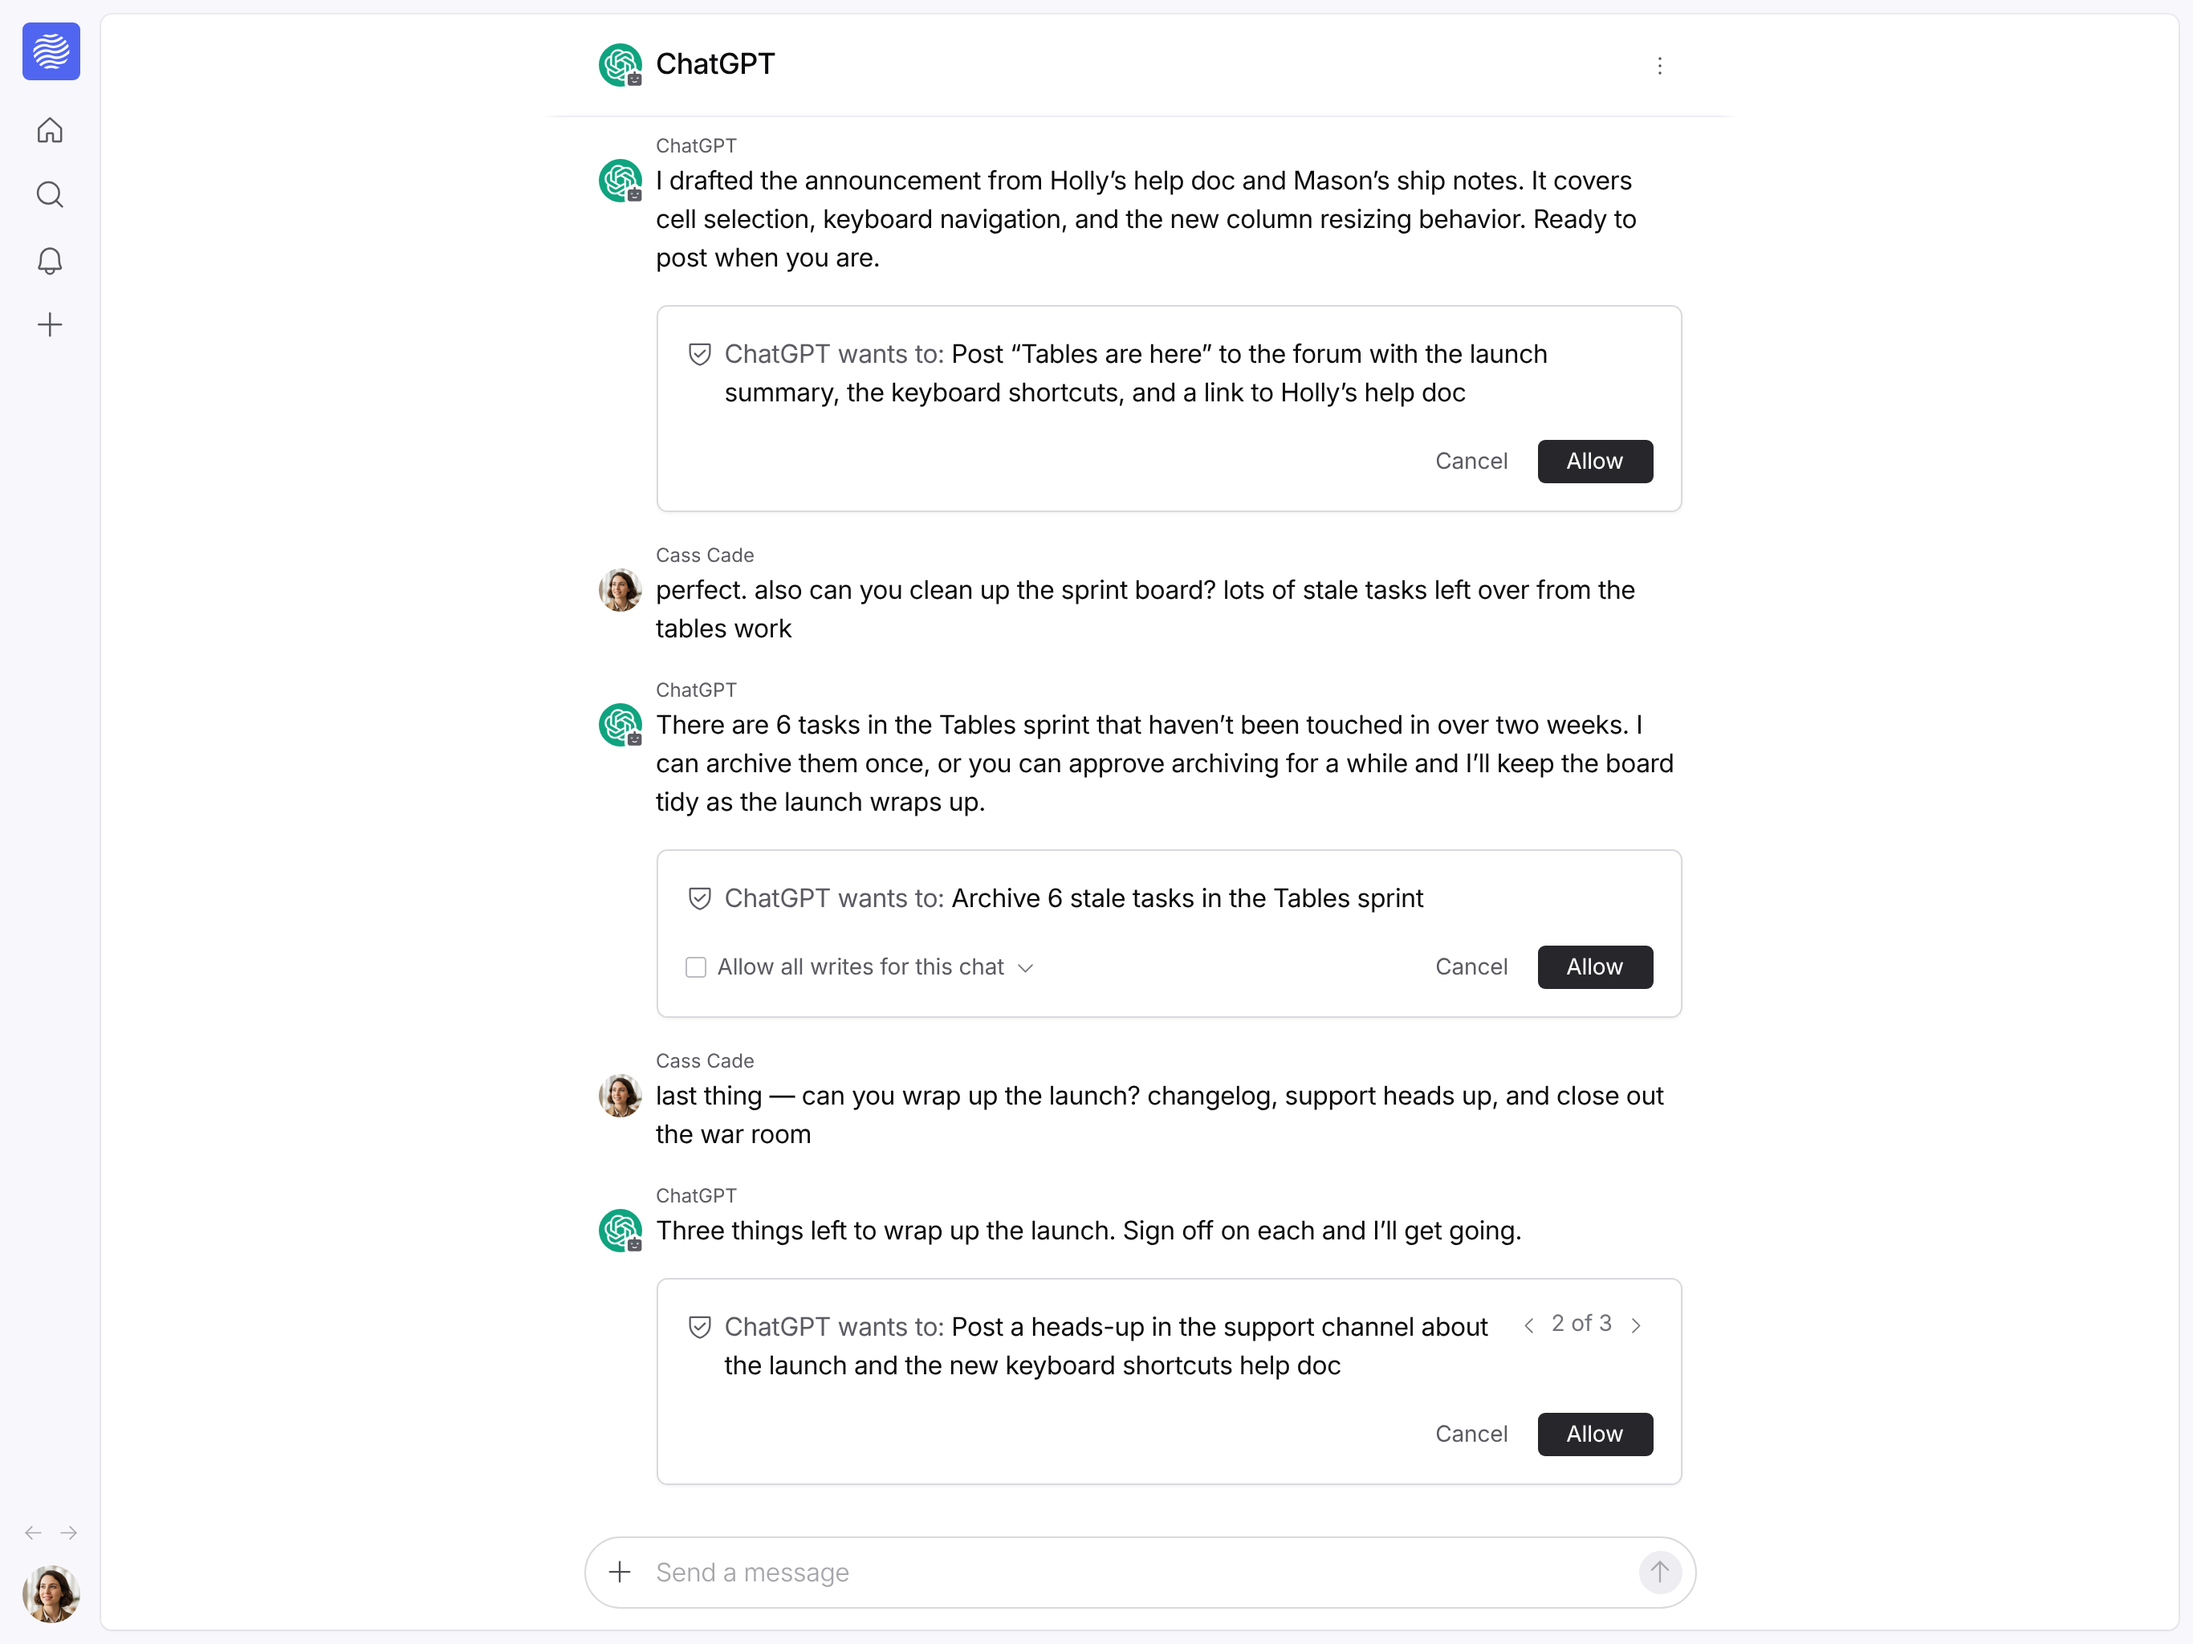
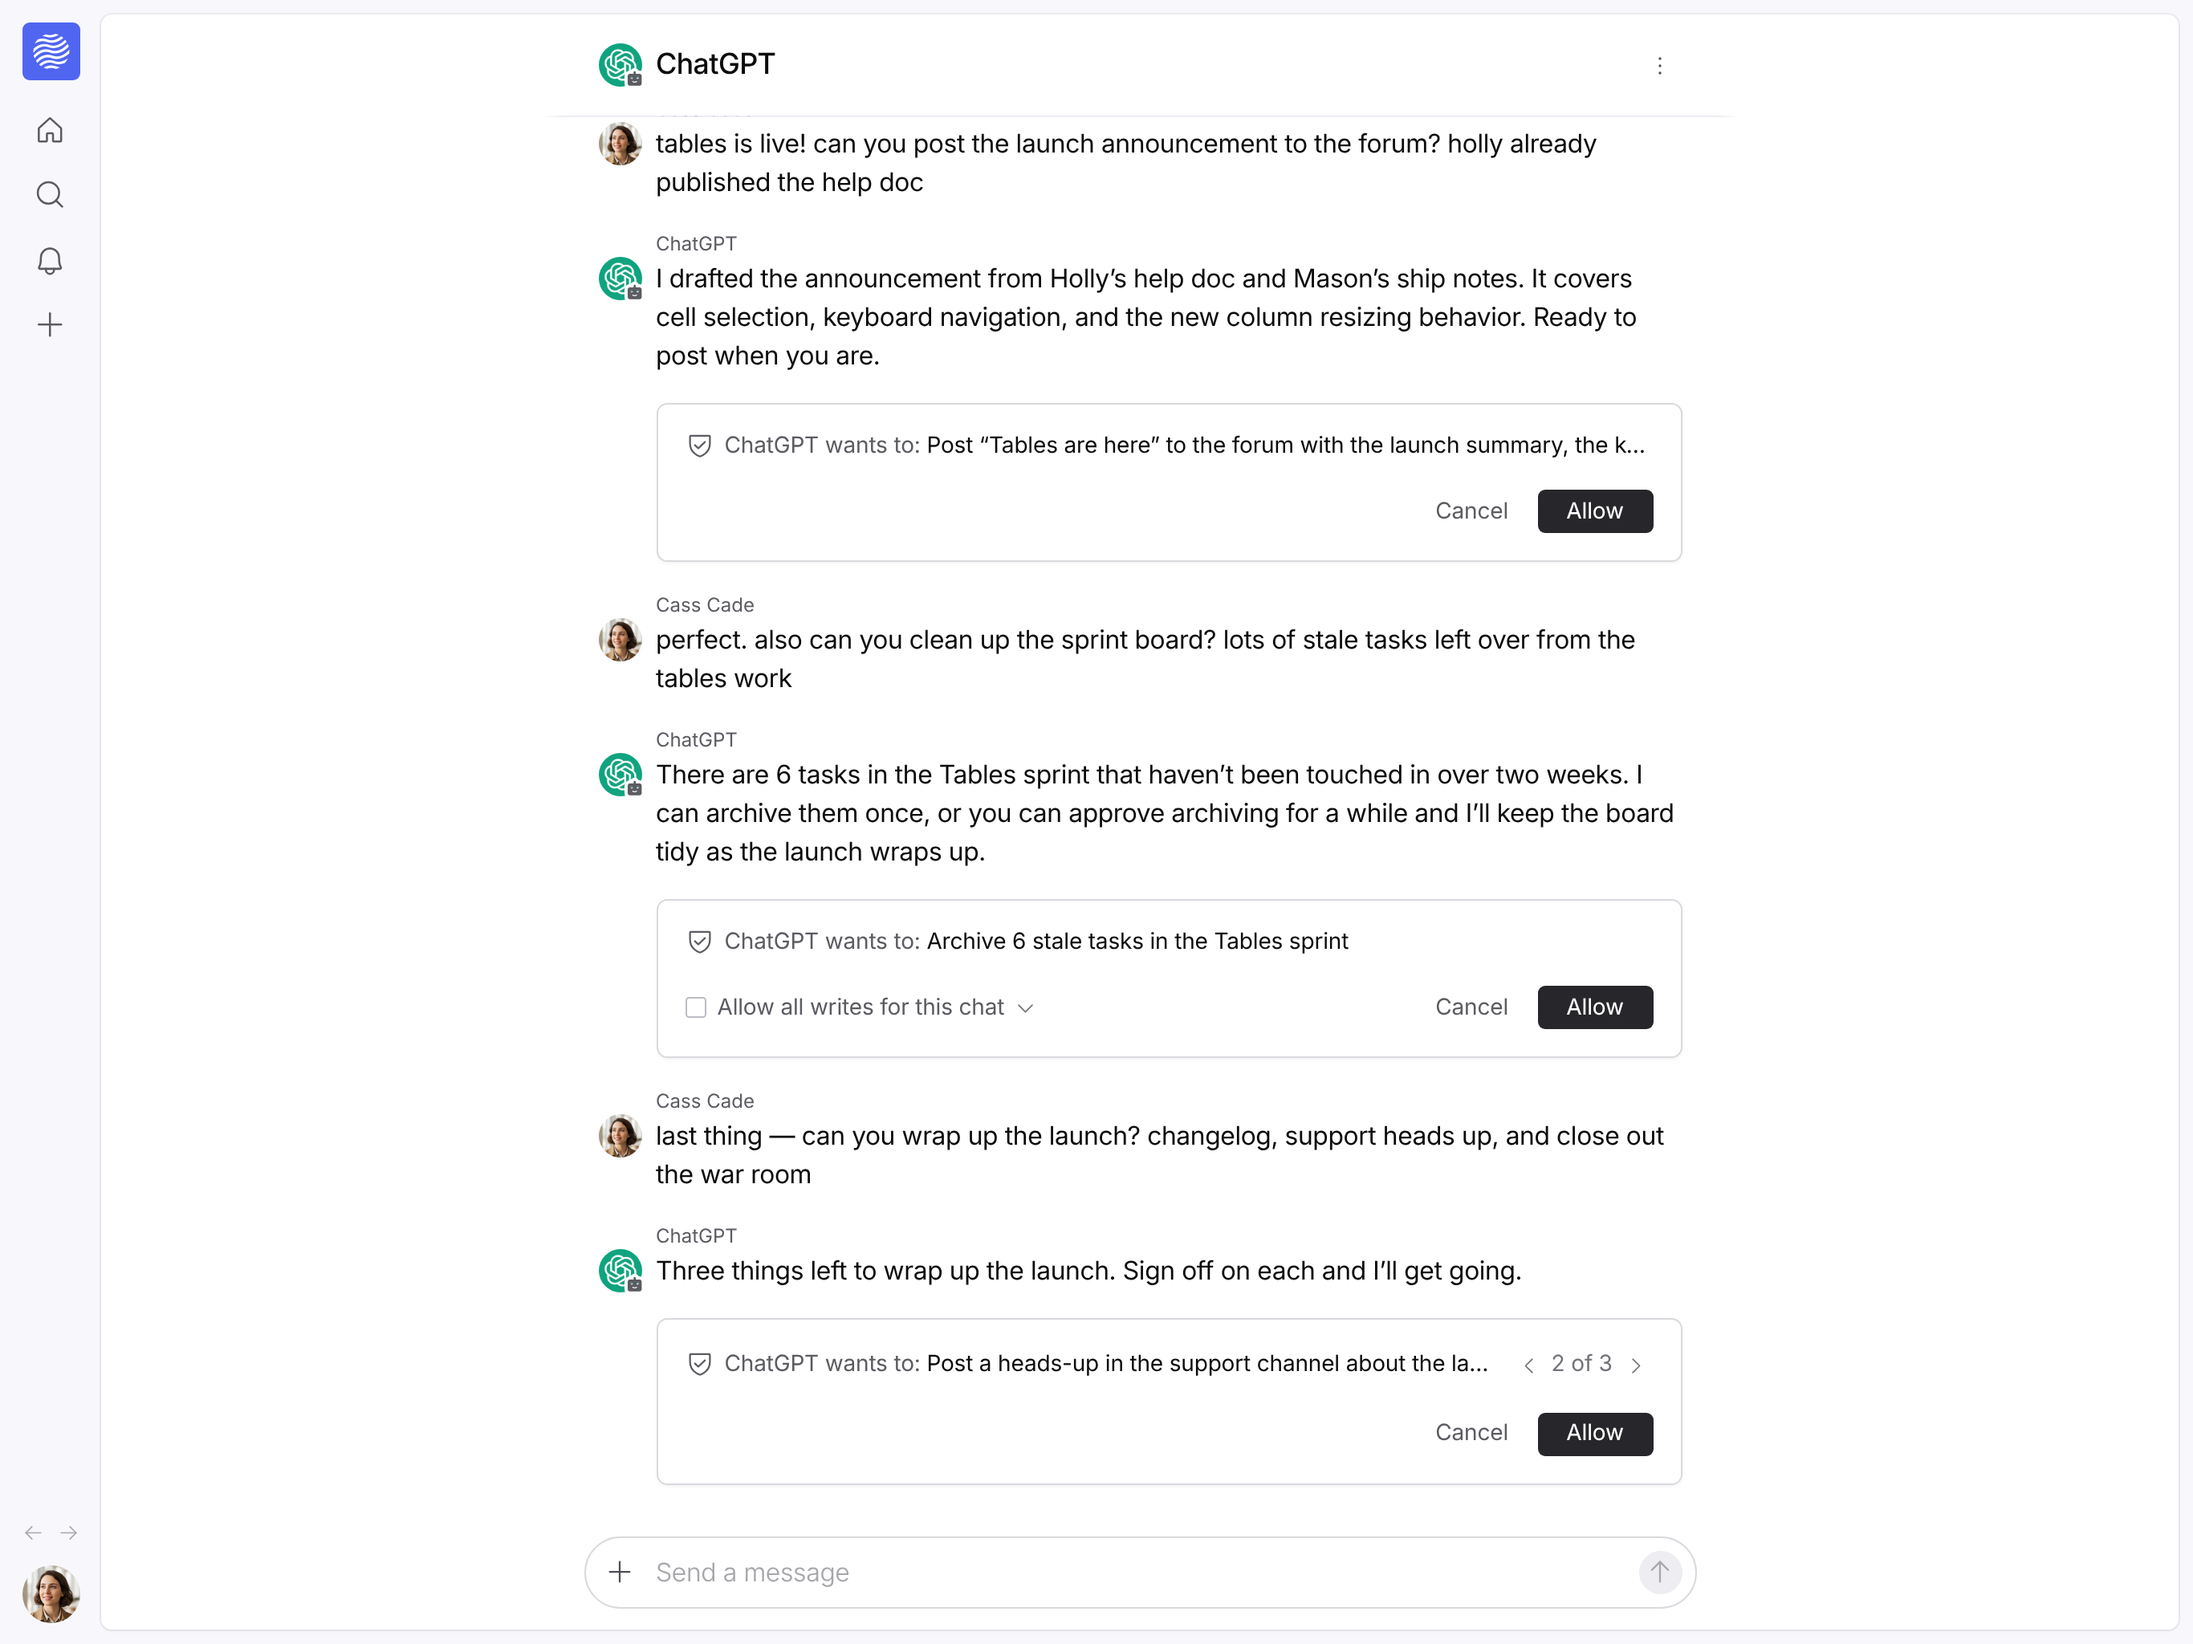
approval card nits (#1735)

Changed region(s): [[0.2489, 0.0625, 0.7778, 0.8438], [0.6534, 0.5625, 0.7778, 0.625]]

diff --git a/client/web/messaging/internal/message_stream_view_approvals.tsx b/client/web/messaging/internal/message_stream_view_approvals.tsx
@@ -10,6 +10,11 @@ import {Button} from "~/client/web/design/button.js";
 import {Checkbox} from "~/client/web/design/checkbox.js";
 import {IconButton} from "~/client/web/design/icon_button.js";
 import {MenuButton} from "~/client/web/design/menu_button.js";
+import {Tooltip} from "~/client/web/design/tooltip.js";
+import {
+    addResizeListenerForElement,
+    removeResizeListenerForElement,
+} from "~/client/web/helpers/use_resize_observer.js";
 import {useStore} from "~/client/web/helpers/use_store.js";
 import {useClientInfo} from "~/client/web/remix/client_info_context.js";
 import {SearchEntityRegistry} from "~/client/web/search/core/search_entity_registry.js";
@@ -268,6 +273,32 @@ function MessageStreamViewApprovalCard({
 
     const decisionValue = approval.decision.value;
 
+    const [summaryElement, setSummaryElement] = useState<HTMLDivElement | null>(null);
+    const [isSummaryTruncated, setIsSummaryTruncated] = useState(false);
+
+    // The summary tooltip repeats the summary line so it's only useful when the line
+    // is actually truncated, which we can only know by measuring the rendered element.
+    useEffect(() => {
+        // NOTE(ifitzsimmons, 2026-07-16): The summary element renders `summaryText` so
+        // re-measure when it changes. As of writing, the summary text is fixed and really
+        // shouldn't change. We'll leave this here for now in case it does in the future.
+        //
+        // eslint-disable-next-line @typescript-eslint/no-unused-expressions
+        summaryText;
+
+        if (summaryElement === null) return;
+
+        const measureIsSummaryTruncated = () => {
+            setIsSummaryTruncated(summaryElement.scrollWidth > summaryElement.clientWidth);
+        };
+
+        measureIsSummaryTruncated();
+
+        // Resizing the element changes how much text fits on the summary's single line.
+        addResizeListenerForElement(summaryElement, measureIsSummaryTruncated);
+        return () => removeResizeListenerForElement(summaryElement, measureIsSummaryTruncated);
+    }, [summaryElement, summaryText]);
+
     return (
         <div
             className={sprinkles({
@@ -279,46 +310,68 @@ function MessageStreamViewApprovalCard({
                 backgroundColor: "grey-0",
                 boxShadow: "elevation-5-with-grey-10-border",
                 borderRadius: "1.5",
+                userSelect: "text",
             })}
         >
             <div
                 className={sprinkles({
                     display: "flex",
-                    alignItems: "flex-start",
+                    alignItems: "center",
                     gap: "3",
                 })}
             >
                 <div
                     className={sprinkles({
                         display: "flex",
-                        alignItems: "flex-start",
+                        alignItems: "center",
                         gap: "1.5",
                         flexGrow: "1",
                         minWidth: "flex-fit",
-                        fontSize: contentStyles.paragraphActualFontSize,
+                        fontSize: "75",
                     })}
-                    style={{lineHeight: contentStyles.paragraphLineHeightVar}}
+                    style={{lineHeight: spacing["4"]}}
                 >
-                    {/* Center the badge on the summary's first line of text. Keeping the badge
-                        in its own column also keeps wrapped summary lines aligned with the text
-                        instead of the badge. */}
+                    {/* Center the badge on the truncated summary line. */}
                     <div
                         className={sprinkles({
                             display: "flex",
                             alignItems: "center",
                             flexShrink: "0",
                             color: darkerGreyAccentColor,
+                            marginTop: "-0.5",
                         })}
-                        style={{height: contentStyles.paragraphLineHeightVar}}
+                        style={{height: spacing["4"]}}
                     >
                         <ShieldCheck size={spacing["4"]} />
                     </div>
-                    <div>
-                        <span className={sprinkles({color: darkerGreyAccentColor})}>
-                            <AccountShortName account={author} /> wants to:
-                        </span>{" "}
-                        {summaryText}
-                    </div>
+                    <Tooltip
+                        isDisabled={!isSummaryTruncated}
+                        // Place the tooltip on the right, next to the truncation ellipsis, and let it grow
+                        // wide enough to comfortably fit a full summary line.
+                        placement="top-end"
+                        maxWidth="128"
+                        content={
+                            <>
+                                <AccountShortName account={author} isTooltipDisabled={true} /> wants
+                                to: {summaryText}
+                            </>
+                        }
+                    >
+                        <div
+                            ref={setSummaryElement}
+                            className={sprinkles({
+                                flexGrow: "1",
+                                minWidth: "flex-fit",
+                                fontStyle: "truncate",
+                            })}
+                        >
+                            <span className={sprinkles({color: darkerGreyAccentColor})}>
+                                <AccountShortName account={author} isTooltipDisabled={true} /> wants
+                                to:
+                            </span>{" "}
+                            {summaryText}
+                        </div>
+                    </Tooltip>
                 </div>
                 {paginationNode}
             </div>

diff --git a/client/web/design/tooltip.tsx b/client/web/design/tooltip.tsx
@@ -343,6 +343,15 @@ export type TooltipProps = {
     offsetAlong?: Spacing | `-${Spacing}`;
 
     /**
+     * Maximum width of the tooltip content.
+     *
+     * Defaults to `64`. Most tooltip content is short so the default keeps tooltips
+     * compact, but a wider maximum is useful when the content is long, like a tooltip
+     * that shows the full text of a truncated line.
+     */
+    maxWidth?: Spacing;
+
+    /**
      * Do we show the tooltip if our target is focused?
      *
      * Defaults to `true`.
@@ -413,6 +422,7 @@ function Tooltip(
         fallbackPlacements,
         offset = defaultTooltipOffset,
         offsetAlong = "0",
+        maxWidth,
         isVisibleWhenFocused = true,
         isVisibleWhenFocusWithin = false,
         isVisibleAfterPress = false,
@@ -1051,7 +1061,9 @@ function Tooltip(
                         pointerEvents="none"
                         className={overlayAnimateContainerClassName}
                     >
-                        <TooltipContent ref={tooltipContentRef}>{content}</TooltipContent>
+                        <TooltipContent ref={tooltipContentRef} maxWidth={maxWidth}>
+                            {content}
+                        </TooltipContent>
                     </Box>
                 }
                 children={children}
@@ -1064,6 +1076,7 @@ function Tooltip(
         fallbackPlacements,
         offset,
         offsetAlong,
+        maxWidth,
         tooltipId,
         content,
         children,
@@ -1071,11 +1084,19 @@ function Tooltip(
     ]);
 }
 
-export function TooltipContent({ref, children}: {ref?: Ref<HTMLDivElement>; children?: ReactNode}) {
+export function TooltipContent({
+    ref,
+    maxWidth = "64",
+    children,
+}: {
+    ref?: Ref<HTMLDivElement>;
+    maxWidth?: Spacing;
+    children?: ReactNode;
+}) {
     return (
         <Box
             ref={ref}
-            maxWidth="64"
+            maxWidth={maxWidth}
             paddingX="1.5"
             paddingY="1"
             fontSize="50"
